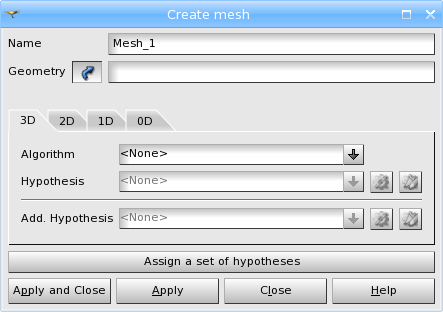
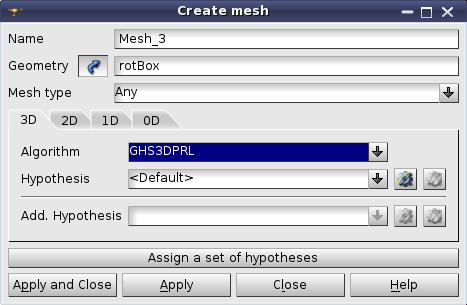
0022364, 0022363: EDF SMESH: Create Mesh dialog box improvement

diff --git a/src/SMESHGUI/SMESHGUI_Hypotheses.h b/src/SMESHGUI/SMESHGUI_Hypotheses.h
@@ -173,7 +173,7 @@ class HypothesisData
 public:
   HypothesisData( const QString&, const QString&, const QString&,
                   const QString&, const QString&, const QString&,
-                  const QList<int>&, const bool,
+                  const QString&, const QList<int>&, const bool,
                   const QStringList&, const QStringList&,
                   const QStringList&, const QStringList&,
                   const bool=true, const bool supportSub=false );
@@ -184,13 +184,15 @@ public:
   QString ClientLibName;   //!< client library name
   QString Label;           //!< label
   QString IconId;          //!< icon identifier
+  QString Context;         //!< ["GLOBAL","LOCAL","ANY"(default)]
   QList<int> Dim;          //!< list of supported dimensions (see SMESH::Dimension enumeration)
-  bool IsAux;              //!< TRUE if given hypothesis is auxiliary one, FALSE otherwise
+  bool IsAuxOrNeedHyp;     //!< TRUE if given hypothesis is auxiliary one, FALSE otherwise
+  //!<                          TRUE if given algorithm can't work w/o hypotheses
   bool IsNeedGeometry;     //!< TRUE if the algorithm works with shapes only, FALSE otherwise
   bool IsSupportSubmeshes; //!< TRUE if the algo building all-dim elems supports submeshes
 
   // for algorithm only: dependencies algo <-> algo and algo -> hypos
-  QStringList NeededHypos;  //!< list of obligatory hypotheses
+  QStringList BasicHypos;   //!< list of basic hypotheses
   QStringList OptionalHypos;//!< list of optional hypotheses
   QStringList InputTypes;   //!< list of element types required as a prerequisite
   QStringList OutputTypes;  //!< list of types of generated elements

diff --git a/src/SMESHGUI/SMESHGUI_MeshOp.h b/src/SMESHGUI/SMESHGUI_MeshOp.h
@@ -111,6 +111,9 @@ private:
   bool                           createMesh( QString&, QStringList& );
   bool                           createSubMesh( QString&, QStringList& );
   bool                           editMeshOrSubMesh( QString& );
+  bool                           checkSubMeshConcurrency( SMESH::SMESH_Mesh_ptr    mesh,
+                                                          SMESH::SMESH_subMesh_ptr submesh,
+                                                          bool                     askUser=false);
 
   int                            currentHyp( const int, const int ) const;
   bool                           isAccessibleDim( const int ) const;
@@ -135,6 +138,7 @@ private:
   bool                           myToCreate;
   bool                           myIsMesh;
   bool                           myIsOnGeometry; //!< TRUE if edited mesh accotiated with geometrical object
+  bool                           myHasConcurrentSubBefore;
 
   TDim2Type2HypList              myExistingHyps; //!< all hypothesis of SMESH module
   TDim2Type2HypList              myObjHyps;      //!< hypothesis assigned to the current 

diff --git a/src/SMESHGUI/SMESHGUI_MeshDlg.h b/src/SMESHGUI/SMESHGUI_MeshDlg.h
@@ -119,7 +119,7 @@ public:
   virtual ~SMESHGUI_MeshTab();
   
   void                         setAvailableHyps( const int, const QStringList& );
-  void                         setExistingHyps( const int, const QStringList& );
+  void                         setExistingHyps( const int, const QStringList&, bool=false);
   void                         addHyp( const int, const QString& );
   void                         renameHyp( const int, const int, const QString& );
   void                         setCurrentHyp( const int, const int );

diff --git a/src/SMESHGUI/SMESHGUI_HypothesesUtils.h b/src/SMESHGUI/SMESHGUI_HypothesesUtils.h
@@ -69,7 +69,8 @@ namespace SMESH
   QStringList GetAvailableHypotheses( const bool, 
                                       const int = -1, 
                                       const bool = false,
-                                      const bool = true);
+                                      const bool = true,
+                                      const bool = false);
   SMESHGUI_EXPORT
   QStringList GetHypothesesSets( int, const QString& );
 
